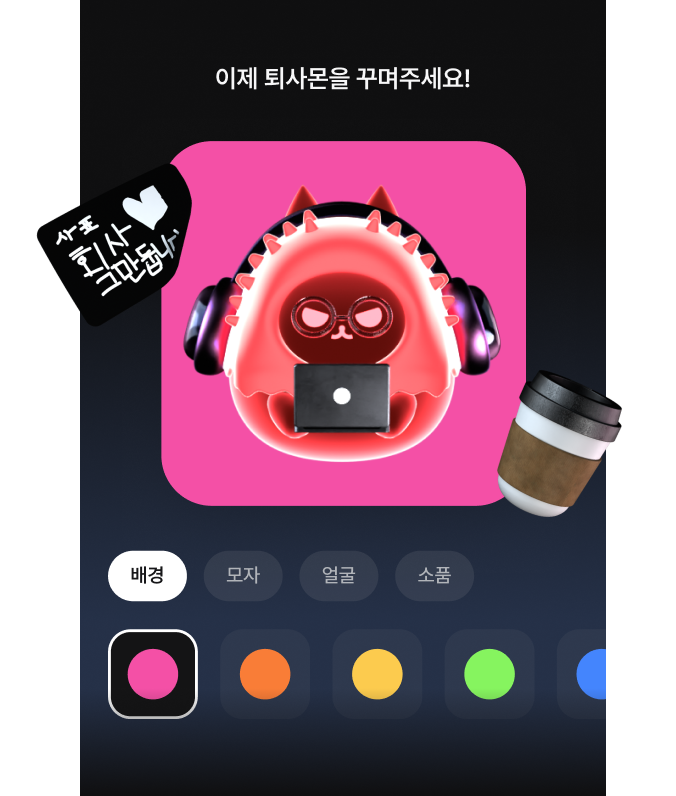
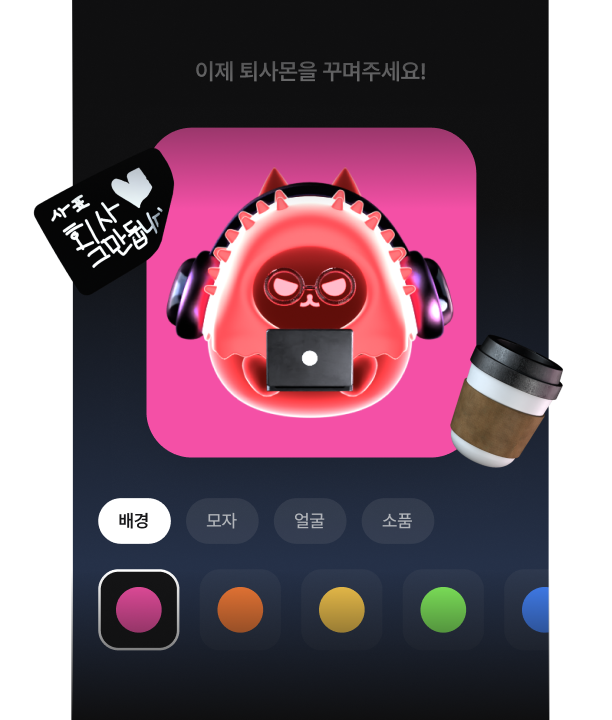
🐛 fix: 온보딩 디자인 수정

diff --git a/src/app/(route)/onboarding/page.tsx b/src/app/(route)/onboarding/page.tsx
@@ -3,7 +3,7 @@
 import Image from 'next/image';
 import { useRouter } from 'next/navigation';
 
-import { useState } from 'react';
+import { TouchEventHandler, useState } from 'react';
 
 import { motion, AnimatePresence } from 'framer-motion';
 import { findIndex } from 'lodash';
@@ -36,6 +36,7 @@ function OnBoardingPage() {
 
   const [dir, setDir] = useState(1);
   const [exit, setExit] = useState(false);
+  const [prevPageX, setPrevPageX] = useState<number | null>(null);
 
   const orderItem = funnel.map(({ name: id }) => ({ id }));
 
@@ -62,14 +63,27 @@ function OnBoardingPage() {
     goIdx(getIdx(step) + 1);
   };
 
+  const handleTouchMove: TouchEventHandler = (event) => {
+    event.preventDefault();
+
+    const touch = event.touches[0]!;
+
+    if (!prevPageX) {
+      setPrevPageX(touch.pageX);
+    } else if (prevPageX > touch.pageX) {
+      // 시작하기 스와이프 X
+      if (getIdx(step) !== funnel.length - 1) {
+        goNext();
+      }
+    } else {
+      goPrev();
+    }
+  };
+
+  const handleTouchEnd = () => setPrevPageX(null);
+
   return (
     <section className="flex h-full w-full select-none flex-col bg-cool-neutral-5">
-      <DotsPagination
-        activeId={step}
-        className="my-[28px] ml-auto w-full flex-none px-20"
-        orderItems={orderItem}
-        dir={dir ? 'forward' : 'backward'}
-      />
       <AnimatePresence
         mode="wait"
         initial={false}
@@ -77,45 +91,50 @@ function OnBoardingPage() {
       >
         <motion.div
           key={`${step}_container`}
-          className="h-full w-full flex-initial"
+          className="flex h-full w-full grow flex-col items-center justify-center"
           initial={{ x: dir * 20, opacity: 0 }}
           animate={{ x: 0, opacity: 1 }}
           exit={{ x: -dir * 20, opacity: 0 }}
           transition={{ duration: 0.2 }}
+          onTouchMove={handleTouchMove}
+          onTouchEnd={handleTouchEnd}
         >
           <Funnel>
-            {funnel.map(
-              ({ name, title, image: { src, alt, width, height } }) => (
-                <Funnel.Step key={name} name={name}>
-                  <Text
-                    className="whitespace-pre-line"
-                    component="h3"
-                    variant="headline-2"
-                    weight="semibold"
-                    align="center"
-                    color="normal"
-                    wrap
-                  >
-                    {title}
-                  </Text>
-                  <div className="relative flex h-full w-full items-center justify-center px-[56px]">
-                    <div className="absolute flex w-auto flex-1 justify-center">
-                      <Image
-                        className="w-full min-w-max"
-                        src={src}
-                        alt={alt}
-                        width={width}
-                        height={height}
-                      />
-                    </div>
-                  </div>
-                </Funnel.Step>
-              ),
-            )}
+            {funnel.map(({ name, title, image: { src, alt } }) => (
+              <Funnel.Step key={name} name={name}>
+                <Text
+                  className="mt-[55px] whitespace-pre-line leading-[1.6]"
+                  component="h3"
+                  variant="headline-1"
+                  weight="semibold"
+                  align="center"
+                  color="normal"
+                  wrap
+                >
+                  {title}
+                </Text>
+                <div className="relative mb-12 mt-16 h-[52.5%] w-full">
+                  <Image
+                    className="mx-auto object-contain"
+                    src={src}
+                    alt={alt}
+                    sizes="(max-width: 768px) 100vw, (max-width: 1200px) 50vw, 33vw"
+                    fill
+                    priority
+                  />
+                </div>
+              </Funnel.Step>
+            ))}
           </Funnel>
         </motion.div>
       </AnimatePresence>
-      <nav className="z-10 flex w-full gap-8 p-[20px]">
+      <DotsPagination
+        activeId={step}
+        className="mb-[45px] justify-center"
+        orderItems={orderItem}
+        dir={dir ? 'forward' : 'backward'}
+      />
+      <nav className="z-10 flex w-full gap-8 p-[20px] pt-0">
         <Button
           className={cn('grow font-medium', {
             hidden: getIdx(step) === 0,

diff --git a/src/app/(route)/onboarding/constants/funnel.ts b/src/app/(route)/onboarding/constants/funnel.ts
@@ -3,8 +3,6 @@ export const funnel = [
     name: 'intro_concept',
     title: '회사에서 받은 스트레스와 감정을\n 퇴사몬에 담아보세요',
     image: {
-      width: 263,
-      height: 398,
       alt: '퇴사몬 만들기 페이지 예시 이미지',
       src: '/images/onboarding/intro_concept.png',
     },
@@ -13,8 +11,6 @@ export const funnel = [
     name: 'customize_feature',
     title: '다양한 아이템을 활용하여\n 나만의 퇴사몬을 꾸며보세요',
     image: {
-      width: 338,
-      height: 398,
       alt: '퇴사몬 꾸미기 페이지 예시 이미지',
       src: '/images/onboarding/customize_feature.png',
     },
@@ -23,8 +19,6 @@ export const funnel = [
     name: 'share_feature',
     title: '친구들에게 퇴사몬을 공유하고\n 응원 메시지와 에너지를 받아보세요',
     image: {
-      width: 263,
-      height: 398,
       alt: '퇴사몬 공유 페이지 예시 이미지',
       src: '/images/onboarding/share_feature.png',
     },
@@ -34,8 +28,6 @@ export const funnel = [
     title:
       '받은 에너지로 화난 퇴사몬은 무찌르고,\n 슬픈 퇴사몬은 행복하게 해주세요',
     image: {
-      width: 263,
-      height: 300,
       alt: '퇴사몬 인터랙션 가이드 이미지',
       src: '/images/onboarding/interaction_feature.png',
     },
@@ -44,8 +36,6 @@ export const funnel = [
     name: 'store_feature',
     title: '완료된 퇴사몬은 보관함에 저장하고\n 다양한 퇴사몬을 만들어보세요',
     image: {
-      width: 263,
-      height: 400,
       alt: '퇴사몬 보관함 페이지 예시 이미지',
       src: '/images/onboarding/store_feature.png',
     },

diff --git a/src/app/layout/BaseLayout.tsx b/src/app/layout/BaseLayout.tsx
@@ -45,7 +45,7 @@ export default function BaseLayout({ children }: BaseLayoutProps) {
           id="root-container"
           className={cn(
             'relative m-auto box-content h-full w-full',
-            'lg:!h-[970px] lg:!w-[448px] lg:overflow-hidden lg:rounded-32 lg:border-[10px] lg:border-cool-neutral-17',
+            'lg:!h-[812px] lg:!w-[375px] lg:overflow-hidden lg:rounded-32 lg:border-[10px] lg:border-cool-neutral-17',
           )}
         >
           {children}
